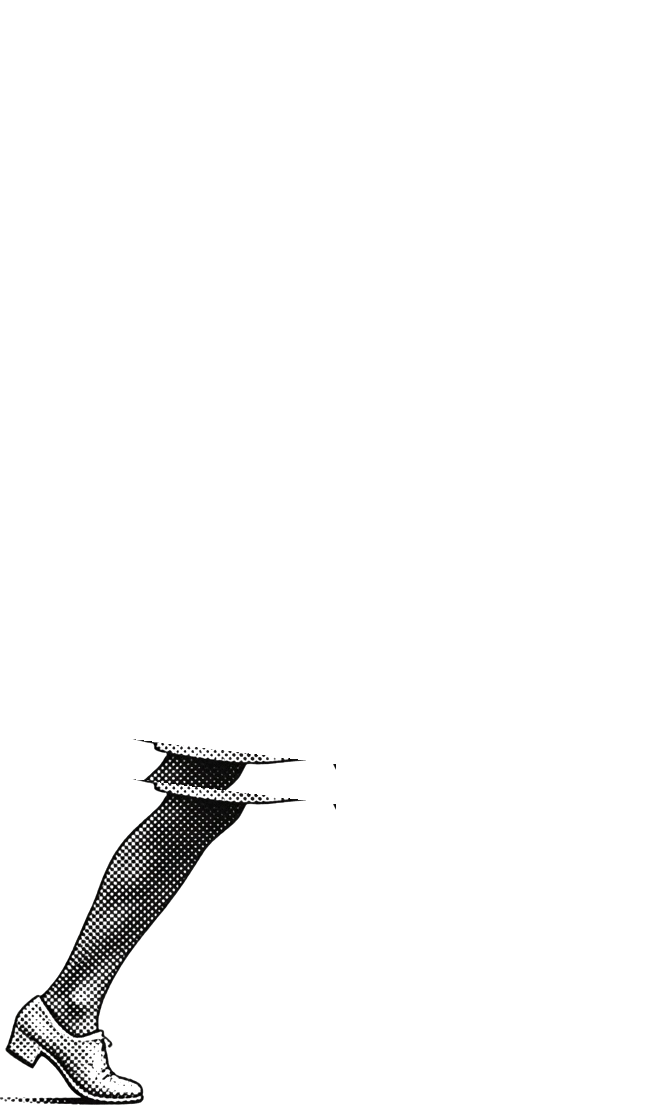
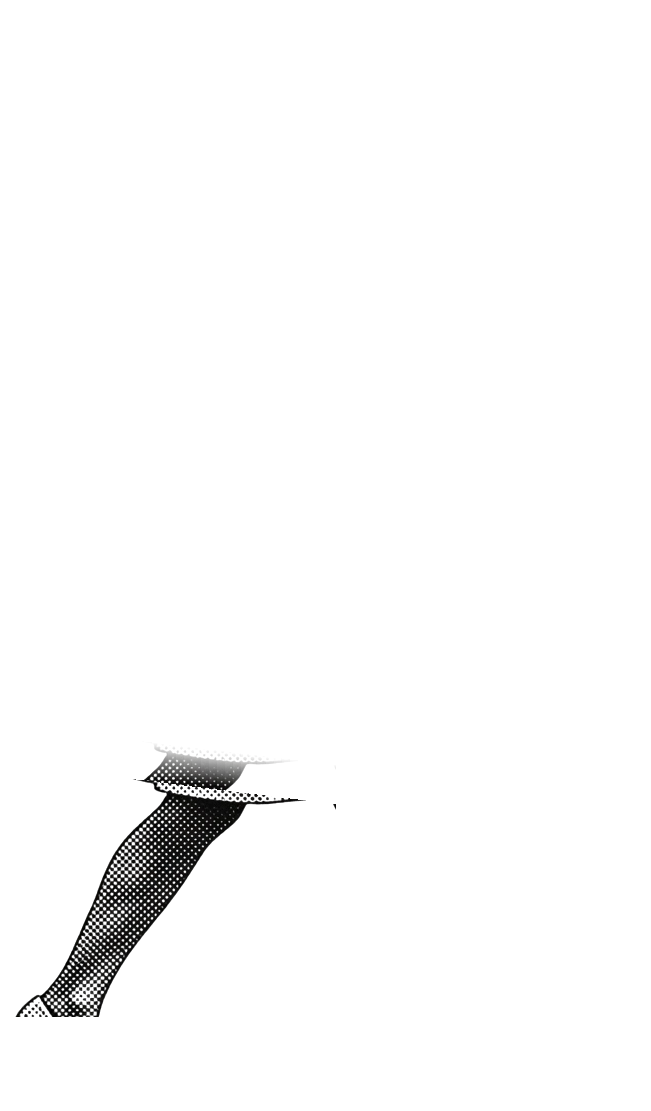
Google v2: pés planos com apoio exato, câmara a girar (roll) e a baloiçar, portas de vaivém que abrem; relógios sem caixa
Claude-Session: https://claude.ai/code/session_01Kfc4CMismtNmc6gaq2Y3sW

Changed region(s): [[0.0, 0.9181, 0.2458, 1.0], [0.2458, 0.6733, 0.4301, 0.7039]]

diff --git a/src/google2/GoogleV2.tsx b/src/google2/GoogleV2.tsx
@@ -1,5 +1,5 @@
 import React from 'react';
-import {AbsoluteFill, Audio, Img, OffthreadVideo, Sequence, interpolate, spring, staticFile, useCurrentFrame} from 'remotion';
+import {AbsoluteFill, Audio, Easing, Img, OffthreadVideo, Sequence, interpolate, spring, staticFile, useCurrentFrame} from 'remotion';
 import '../fonts';
 import {fonts} from '../styles';
 import {Bg, FPS, INK, Lines, RED, clamp, ease} from '../feudal/Common';
@@ -8,7 +8,7 @@ import {TornDefs} from '../feudal/StyleV2';
 import words from './words.json';
 import {GBEATS, G_END} from './beats';
 import type {GBeat} from './beats';
-import {TransitionAt, punchStyle} from './Transitions';
+import {TransitionAt, punchStyle, rollStyle} from './Transitions';
 
 export const G2_TOTAL = (words as {total: number}).total;
 export const G2_FRAMES = Math.ceil(G2_TOTAL * FPS) + 30;
@@ -41,30 +41,68 @@ const layerS = (n: string, extra?: React.CSSProperties) => <Img src={rig(n)} sty
 const travel = (t: number) => (t < 1.2 ? 300 * ((t * t) / 2.4) : 300 * (0.6 + (t - 1.2)));
 const frac = (x: number) => x - Math.floor(x);
 
-// passada: x do pé relativo à anca (px da imagem) e elevação, para a fase p ∈ [0,1)
-const A_DEG = 26, LEG = 310, FOOT_A = LEG * Math.sin((A_DEG * Math.PI) / 180);
-const footPhase = (p: number) => {
-  if (p < 0.5) return {x: FOOT_A * (1 - 4 * p), lift: 0};            // apoio: o pé anda para trás a velocidade constante
-  const s = (p - 0.5) * 2;
-  return {x: -FOOT_A + 2 * FOOT_A * (0.5 - 0.5 * Math.cos(Math.PI * s)), lift: 26 * Math.sin(Math.PI * s)};
+// passada: o pé/tornozelo anda à velocidade do chão durante o apoio; o pé fica plano (calcanhar toca, dedos saem) e a anca sobe/desce
+import footDepth from './foot_depth.json';
+const A_DEG = 26;
+const HIPX = 300, HIPY = 790, GROUND = 1100;
+const LEGS = {
+  F: {A0: [440, 1052], th0: 29, drawnToeUp: 14},     // perna da frente: desenhada com a ponta do pé para cima
+  B: {A0: [85, 1005], th0: -45, drawnToeUp: -19.5},  // perna de trás: desenhada na descolagem (calcanhar no ar)
+} as const;
+const lenOf = (k: 'F' | 'B') => Math.hypot(LEGS[k].A0[0] - HIPX, LEGS[k].A0[1] - HIPY);
+const ease01 = (x: number) => 0.5 - 0.5 * Math.cos(Math.PI * Math.min(1, Math.max(0, x)));
+const depthAt = (k: 'F' | 'B', css: number) => {
+  const t = footDepth[k] as Record<string, number>;
+  const c = Math.max(-45, Math.min(45, css)), lo = Math.floor(c), hi = Math.ceil(c);
+  return t[String(lo)] + (t[String(hi)] - t[String(lo)]) * (c - lo);
 };
+const footToeUp = (p: number) => {                      // ângulo da ponta do pé (° para cima) ao longo do ciclo
+  if (p < 0.5) { if (p < 0.1) return 14 * (1 - p / 0.1); if (p < 0.38) return 0; return -22 * ((p - 0.38) / 0.12); }
+  return -22 + 36 * ease01((p - 0.5) / 0.5);
+};
+const rotPt = (dx: number, dy: number, deg: number) => { const r = (deg * Math.PI) / 180; return [dx * Math.cos(r) - dy * Math.sin(r), dx * Math.sin(r) + dy * Math.cos(r)]; };
+
 const Nurse: React.FC<{tr: number; k: number}> = ({tr, k}) => {
-  const STRIDE = (4 * FOOT_A) * k;                                    // px do ecrã por ciclo completo (dois passos)
+  const FOOT_A = lenOf('F') * Math.sin((A_DEG * Math.PI) / 180);        // meio passo (px da imagem)
+  const STRIDE = 4 * FOOT_A * k;                                           // px do ecrã por ciclo (dois passos)
   const u = frac(tr / STRIDE);
-  const HIP = '300px 790px';
-  const leg = (p: number, theta0: number, name: string) => {
-    const {x, lift} = footPhase(p);
-    const th = Math.asin(Math.max(-1, Math.min(1, x / LEG)));
-    return {el: layerS(name, {transformOrigin: HIP, transform: `translateY(${-lift}px) rotate(${(-(th * 180) / Math.PI + theta0)}deg)`}), th, st: p < 0.5};
+  const calc = (key: 'F' | 'B', p: number) => {
+    const L = lenOf(key), cfg = LEGS[key];
+    // posição horizontal do tornozelo relativa à anca: apoio linear (pé parado no chão), balanço suave
+    const x = p < 0.5 ? FOOT_A * (1 - 4 * p) : -FOOT_A + 2 * FOOT_A * ease01((p - 0.5) * 2);
+    const th = Math.asin(Math.max(-1, Math.min(1, x / L)));
+    const legCss = cfg.th0 - (th * 180) / Math.PI;                         // rotação CSS (horário) da perna em torno da anca
+    const footCss = cfg.drawnToeUp - footToeUp(p);                          // rotação CSS do pé em torno do tornozelo
+    return {key, p, L, th, legCss, footCss, stance: p < 0.5};
   };
-  const F = leg(u, 29, 'nurse-legF'), B = leg(frac(u + 0.5), -40, 'nurse-legB');
-  const stance = F.st ? F.th : B.th;
-  const drop = LEG * (1 - Math.cos(stance));                          // a anca desce quando a perna de apoio está inclinada
+  const lf = calc('F', u), lb = calc('B', frac(u + 0.5));
+  // a anca ajusta-se para o pé de apoio tocar no chão com a sola plana
+  const st = lf.stance ? lf : lb;
+  const stAnkleY = GROUND - depthAt(st.key, st.footCss);
+  const drop = stAnkleY - HIPY - st.L * Math.cos(st.th);
+  const build = (l: typeof lf) => {
+    const cfg = LEGS[l.key];
+    const [rx, ry] = rotPt(cfg.A0[0] - HIPX, cfg.A0[1] - HIPY, l.legCss);   // tornozelo depois de rodar a perna
+    let lift = 0;
+    if (!l.stance) {
+      const ankleY = HIPY + drop + ry;                                       // sem elevação
+      const need = Math.max(0, ankleY - (GROUND - depthAt(l.key, l.footCss)));
+      lift = need + 20 * Math.sin(Math.PI * (l.p - 0.5) * 2);
+    }
+    const ax = HIPX + rx, ay = HIPY + ry - lift;
+    const name = l.key === 'F' ? 'F' : 'B';
+    return (
+      <>
+        {layerS(`nurse-leg${name}`, {transformOrigin: `${HIPX}px ${HIPY}px`, transform: `translateY(${-lift}px) rotate(${l.legCss}deg)`})}
+        {layerS(`nurse-foot${name}`, {transformOrigin: `${cfg.A0[0]}px ${cfg.A0[1]}px`, transform: `translate(${ax - cfg.A0[0]}px, ${ay - cfg.A0[1]}px) rotate(${l.footCss}deg)`})}
+      </>
+    );
+  };
   const arm = Math.sin(u * Math.PI * 2) * 4;
   return (
     <div style={{position: 'absolute', left: 0, top: 0, width: 651, height: 1111, transform: `translateY(${drop}px)`}}>
-      {B.el}
-      {F.el}
+      {build(lb)}
+      {build(lf)}
       {layerS('nurse-body', {transformOrigin: '260px 330px', transform: `rotate(${arm * 0.25}deg)`})}
     </div>
   );
@@ -88,8 +126,9 @@ const Chase: React.FC<{n: string}> = ({n}) => {
   const dims = isN ? {w: 651, h: 1111, h2: 560, x: 760} : isB ? {w: 1500, h: 747, h2: 400, x: 600} : {w: 1500, h: 781, h2: 430, x: 640};
   const k = dims.h2 / dims.h;
   const bounce = isN ? 0 : Math.sin(t * 9) * 1.2 * ramp;
+  const sway = Math.sin(t * 0.8) * 1.4, zoom = 1.06 + Math.sin(t * 0.5) * 0.015;
   return (
-    <>
+    <div style={{position: 'absolute', inset: 0, transform: `rotate(${sway}deg) scale(${zoom})`, transformOrigin: '50% 60%'}}>
       {[0, 1, 2].map((i) => (
         <Img key={i} src={cut('hospital-corridor-wall')} style={{position: 'absolute', left: ((i * tile - tr * 0.55) % (3 * tile) + 3 * tile) % (3 * tile) - tile, top: ROAD - 560, height: 560, opacity: 0.55}} />
       ))}
@@ -102,7 +141,7 @@ const Chase: React.FC<{n: string}> = ({n}) => {
         <div style={{position: 'absolute', left: '8%', right: '8%', bottom: -10, height: 40, borderRadius: '50%', background: 'rgba(0,0,0,0.3)', filter: 'blur(14px)'}} />
         {isN ? <Nurse tr={tr} k={k} /> : isB ? <Wheeled {...BED} tr={tr} k={k} bounce={bounce} /> : <Wheeled {...AMB} tr={tr} k={k} bounce={bounce} />}
       </div>
-    </>
+    </div>
   );
 };
 
@@ -119,10 +158,10 @@ const ClockFixed: React.FC<{name: string; size: number; t0?: number}> = ({name, 
       <path d={`M ${c.cx - wd} ${c.cy + len * tail} L ${c.cx - wd * 0.45} ${c.cy - len} L ${c.cx + wd * 0.45} ${c.cy - len} L ${c.cx + wd} ${c.cy + len * tail} Z`} fill={INK} stroke="#fff" strokeWidth={3} />
     </g>
   );
-  const f = staticFile(`feudal/obj/${name}.png`);
+  const f = staticFile(`google2/rig/${name}.png`);
   return (
     <div style={{position: 'relative', width: size, height: size}}>
-      <Img src={f} style={{width: '100%', height: '100%', objectFit: 'contain', mixBlendMode: 'multiply'}} />
+      <Img src={f} style={{width: '100%', height: '100%', objectFit: 'contain'}} />
       <svg viewBox="0 0 1600 1600" style={{position: 'absolute', inset: 0, width: '100%', height: '100%'}}>
         <g style={{filter: 'drop-shadow(5px 7px 6px rgba(0,0,0,0.35))'}}>
           {hand(hour, c.h, 20 * c.w)}{hand(min, c.m, 14 * c.w)}
@@ -140,7 +179,7 @@ const ClockFixed: React.FC<{name: string; size: number; t0?: number}> = ({name, 
 const ClockWall: React.FC = () => {
   const f = useCurrentFrame();
   const o = interpolate(f, [0, 12], [0, 1], clamp);
-  return <div style={{position: 'absolute', right: 120, top: 250, mixBlendMode: 'multiply', transform: `scale(${0.85 + 0.15 * o})`}}><ClockFixed name="clock-face" size={240} t0={4.8} /></div>;
+  return <div style={{position: 'absolute', right: 120, top: 250, transform: `scale(${0.85 + 0.15 * o})`}}><ClockFixed name="clock-face" size={240} t0={4.8} /></div>;
 };
 
 const Count: React.FC<{v: number; suf?: string; lab?: string}> = ({v, suf, lab}) => {
@@ -201,11 +240,37 @@ const ClockBeat: React.FC<{n: string}> = ({n}) => {
   return <div style={{position: 'absolute', left: 1030, top: 150, opacity: p, transform: `translateY(${Math.sin(t * 1.4) * 8}px)`}}><ClockFixed name={n} size={700} t0={0} /></div>;
 };
 
+const Doors: React.FC<{open?: number}> = ({open = 1.2}) => {
+  const f = useCurrentFrame(); const t = f / FPS;
+  const o = interpolate(t, [open, open + 1.3], [0, 1], {...clamp, easing: Easing.inOut(Easing.cubic)});
+  const ang = o * 82;
+  const sp = spring({frame: f, fps: FPS, config: {damping: 14, stiffness: 190, mass: 0.8}});
+  const W0 = 1032, H0 = 1232, S = 0.62;
+  const L = (n: string, st?: React.CSSProperties) => <Img src={staticFile(`google2/rig/${n}.png`)} style={{position: 'absolute', left: 0, top: 0, width: W0, height: H0, ...st}} />;
+  return (
+    <div style={{position: 'absolute', left: 1000 + (1 - sp) * 240, top: 150, width: W0 * S, height: H0 * S, perspective: 1500}}>
+      <div style={{position: 'absolute', left: 0, top: 0, width: W0, height: H0, transformOrigin: '0 0', transform: `scale(${S})`}}>
+        <div style={{position: 'absolute', left: 52, top: 48, width: 923, height: 1128, overflow: 'hidden', background: INK}}>
+          <div style={{position: 'absolute', inset: 0, background: `radial-gradient(ellipse at 50% 55%, #ffffff 0%, #ffe3dc ${20 + 10 * o}%, ${RED} 70%, #3a0a0d 100%)`, opacity: 0.25 + 0.75 * o}} />
+          <svg width="923" height="1128" style={{position: 'absolute', inset: 0, opacity: o}}>
+            {[0.1, 0.25, 0.4, 0.6, 0.75, 0.9].map((x, i) => <line key={i} x1={x * 923} y1={x < 0.5 ? 0 : 1128} x2={461} y2={564} stroke={INK} strokeWidth="5" opacity="0.5" />)}
+            <rect x={361} y={414} width={200} height={300} fill="none" stroke={INK} strokeWidth="6" opacity="0.6" />
+          </svg>
+        </div>
+        {L('doors-frame')}
+        <div style={{position: 'absolute', left: 0, top: 0, width: W0, height: H0, transformOrigin: '52px 0', transform: `rotateY(${-ang}deg)`, transformStyle: 'preserve-3d'}}>{L('doors-leafL')}</div>
+        <div style={{position: 'absolute', left: 0, top: 0, width: W0, height: H0, transformOrigin: '975px 0', transform: `rotateY(${ang}deg)`}}>{L('doors-leafR')}</div>
+      </div>
+    </div>
+  );
+};
+
 const Beat: React.FC<{b: GBeat}> = ({b}) => (
   <>
     {b.k === 'chase' && <><Chase n={b.n!} /><Cap L={b.L!} hot={b.hot} w={1500} size={b.L!.length > 2 ? 84 : 104} y={60} /></>}
     {b.k === 'img' && <><CutImg n={b.n!} /><Cap L={b.L!} hot={b.hot} /></>}
     {b.k === 'obj' && <><ObjView n={b.n!} /><Cap L={b.L!} hot={b.hot} /></>}
+    {b.k === 'doors' && <><Doors open={b.v} /><Cap L={b.L!} hot={b.hot} /></>}
     {b.k === 'clock' && <><ClockBeat n={b.n!} /><Cap L={b.L!} hot={b.hot} /></>}
     {b.k === 'stock' && <><Stock n={b.n!} /><Cap L={b.L!} hot={b.hot} /></>}
     {b.k === 'big' && <Big L={b.L!} hot={b.hot} />}
@@ -230,11 +295,12 @@ const Counter: React.FC = () => {
 export const GoogleV2: React.FC = () => {
   const frame = useCurrentFrame();
   const punches = GBEATS.filter((b) => b.tr === 'punch').map((b) => b.s);
+  const rolls = GBEATS.filter((b) => b.tr === 'roll').map((b) => b.s);
   return (
     <AbsoluteFill>
       <Bg theme="paper" />
       <TornDefs />
-      <AbsoluteFill style={punchStyle(frame, punches)}>
+      <AbsoluteFill style={{...punchStyle(frame, punches), ...rollStyle(frame, rolls)}}>
         {GBEATS.map((b, i) => {
           const e = i + 1 < GBEATS.length ? GBEATS[i + 1].s : G_END;
           return (

diff --git a/src/google2/beats.ts b/src/google2/beats.ts
@@ -1,9 +1,9 @@
 // Guião visual do Google v2 (primeiros 3 min). `s` = segundo da locução (alinhado em words.json); o beat dura até ao seguinte.
-export type GBeat = {tr?: 'redtear' | 'ink' | 'iris' | 'strips' | 'punch'; s: number; k: 'img' | 'obj' | 'clock' | 'chase' | 'big' | 'count' | 'strike' | 'stock'; n?: string; L?: string[]; hot?: number[]; v?: number; suf?: string; lab?: string};
+export type GBeat = {tr?: 'redtear' | 'ink' | 'iris' | 'strips' | 'punch' | 'roll'; s: number; k: 'img' | 'obj' | 'clock' | 'doors' | 'chase' | 'big' | 'count' | 'strike' | 'stock'; n?: string; L?: string[]; hot?: number[]; v?: number; suf?: string; lab?: string};
 export const G_END = 182;
 export const GBEATS: GBeat[] = [
   {s: 0, k: 'chase', n: 'nurse-walking-side', L: ['A NIGHT-SHIFT', 'NURSE.'], hot: [1]},
-  {s: 8.3, tr: 'punch', k: 'chase', n: 'hospital-bed-side', L: ['3:12 A.M.', 'THE HOSPITAL', 'IS QUIET.'], hot: [0]},
+  {s: 8.3, tr: 'roll', k: 'chase', n: 'hospital-bed-side', L: ['3:12 A.M.', 'THE HOSPITAL', 'IS QUIET.'], hot: [0]},
   {s: 15.4, tr: 'ink', k: 'chase', n: 'ambulance-side', L: ['THE INSTANT', 'A PATIENT', 'GETS WORSE.']},
   {s: 20.2, tr: 'strips', k: 'clock', n: 'alarm-clock-face', L: ['NO ALARM.', 'JUST 3:12.'], hot: [1]},
   {s: 23.2, tr: 'redtear', k: 'img', n: 'vitals-monitor', L: ['A HUNDRED', 'SMALL READINGS.']},
@@ -11,7 +11,7 @@ export const GBEATS: GBeat[] = [
   {s: 27.8, k: 'img', n: 'pulse-clip', L: ['A PULSE.']},
   {s: 29.0, k: 'img', n: 'test-tube-rack', L: ['A VALUE', 'IN THE BLOOD.']},
   {s: 32.3, k: 'img', n: 'iv-drip-stand', L: ['EACH ONE:', 'NOTHING.', 'EASY TO MISS.'], hot: [2]},
-  {s: 37.7, tr: 'punch', k: 'img', n: 'server-rack', L: ['ALL OF THEM.', 'AT ONCE.'], hot: [1]},
+  {s: 37.7, tr: 'roll', k: 'img', n: 'server-rack', L: ['ALL OF THEM.', 'AT ONCE.'], hot: [1]},
   {s: 43.2, k: 'img', n: 'security-camera', L: ['WITHOUT TIRING.', 'WITHOUT BLINKING.']},
   {s: 48.3, tr: 'iris', k: 'obj', n: 'network-nodes', L: ['2018.', 'A MACHINE LEARNS.'], hot: [0]},
   {s: 52.3, k: 'stock', n: 'watching', L: ['TO SEE', 'IT FIRST.'], hot: [1]},
@@ -26,12 +26,12 @@ export const GBEATS: GBeat[] = [
   {s: 93.4, k: 'img', n: 'closed-file-cabinet', L: ['TESTED ON', 'RECORDS', 'ALREADY CLOSED.']},
   {s: 97.7, k: 'img', n: 'gauge-dial-near-max', L: ['0.93–0.94', 'ON A SCALE', 'WHERE 1 = PERFECT.'], hot: [0]},
   {s: 100.5, k: 'img', n: 'empty-bedside-chair', L: ['NOT AT', 'ANYONE’S', 'BEDSIDE.']},
-  {s: 105.0, tr: 'redtear', k: 'big', L: ['BUT IT PROVED', 'IT COULD BE DONE.']},
+  {s: 105.0, tr: 'roll', k: 'big', L: ['BUT IT PROVED', 'IT COULD BE DONE.']},
   {s: 108.4, k: 'obj', n: 'stethoscope', L: ['A NICE STORY', 'ABOUT TECHNOLOGY', 'SAVING LIVES.']},
   {s: 116.0, tr: 'iris', k: 'obj', n: 'big-question-mark', L: ['ONE QUESTION', 'ALMOST NOBODY', 'ASKS.'], hot: [2]},
   {s: 121.6, tr: 'ink', k: 'big', L: ['WHAT DATA DID IT', 'LEARN TO SEE', 'DEATH FROM?'], hot: [2]},
-  {s: 125.7, tr: 'punch', k: 'strike', n: 'wristband-redacted', L: ['ANONYMOUS']},
-  {s: 134.7, tr: 'redtear', k: 'img', n: 'hospital-swing-doors', L: ['THEY WALKED', 'THROUGH', 'THOSE DOORS.']},
+  {s: 125.7, tr: 'roll', k: 'strike', n: 'wristband-redacted', L: ['ANONYMOUS']},
+  {s: 134.7, tr: 'redtear', k: 'doors', n: 'hospital-swing-doors', v: 1.2, L: ['THEY WALKED', 'THROUGH', 'THOSE DOORS.']},
   {s: 142.9, k: 'obj', n: 'brain', L: ['NOBODY THOUGHT', 'THEY WERE TEACHING', 'A MACHINE.']},
   {s: 146.9, k: 'img', n: 'admission-clipboard', L: ['SIGNED TO', 'BE TREATED.']},
   {s: 150.4, tr: 'strips', k: 'big', L: ['NOT TO BE', 'AN EXAMPLE.']},

diff --git a/src/google2/Transitions.tsx b/src/google2/Transitions.tsx
@@ -5,7 +5,7 @@ import {INK, RED, FPS} from '../feudal/Common';
 
 // Transições de impacto no estilo do canal (papel rasgado, tinta, vermelho). Cada uma dura 2·H frames e está centrada na fronteira:
 // os primeiros H frames cobrem o ecrã, os últimos H descobrem o novo plano. A troca de conteúdo acontece no frame H.
-export type TrKind = 'redtear' | 'ink' | 'iris' | 'strips' | 'punch';
+export type TrKind = 'redtear' | 'ink' | 'iris' | 'strips' | 'punch' | 'roll';
 export const TR_H = 7;
 const io = Easing.inOut(Easing.cubic);
 const cl = {extrapolateLeft: 'clamp', extrapolateRight: 'clamp'} as const;
@@ -69,7 +69,7 @@ export const TransitionAt: React.FC<{at: number; kind: TrKind; cx?: number; cy?:
       {kind === 'ink' && <Ink />}
       {kind === 'iris' && <Iris cx={cx} cy={cy} />}
       {kind === 'strips' && <Strips />}
-      {kind === 'punch' && <Flash />}
+      {(kind === 'punch' || kind === 'roll') && <Flash />}
     </Sequence>
   );
 };
@@ -82,6 +82,21 @@ export const punchStyle = (frame: number, boundaries: number[]): React.CSSProper
       const s = d < 0 ? 1 + 0.22 * Math.pow((d + TR_H) / TR_H, 2) : 0.9 + 0.1 * Easing.out(Easing.cubic)(d / TR_H);
       const bl = d < 0 ? 5 * Math.pow((d + TR_H) / TR_H, 2) : 5 * (1 - d / TR_H);
       return {transform: `scale(${s})`, filter: `blur(${bl}px)`, transformOrigin: '50% 50%'};
+    }
+  }
+  return {};
+};
+
+// câmara a girar: rola 360° em torno do centro com zoom e desfoque; a troca de plano acontece a meio, escondida pelo movimento
+export const rollStyle = (frame: number, boundaries: number[]): React.CSSProperties => {
+  const R = 11;
+  for (const b of boundaries) {
+    const d = frame - Math.round(b * FPS);
+    if (d >= -R && d <= R) {
+      const p = (d + R) / (2 * R);
+      const e = io(p);
+      const bump = Math.sin(Math.PI * p);
+      return {transform: `rotate(${e * 360}deg) scale(${1 + 0.35 * bump})`, filter: `blur(${7 * bump}px)`, transformOrigin: '50% 50%'};
     }
   }
   return {};
